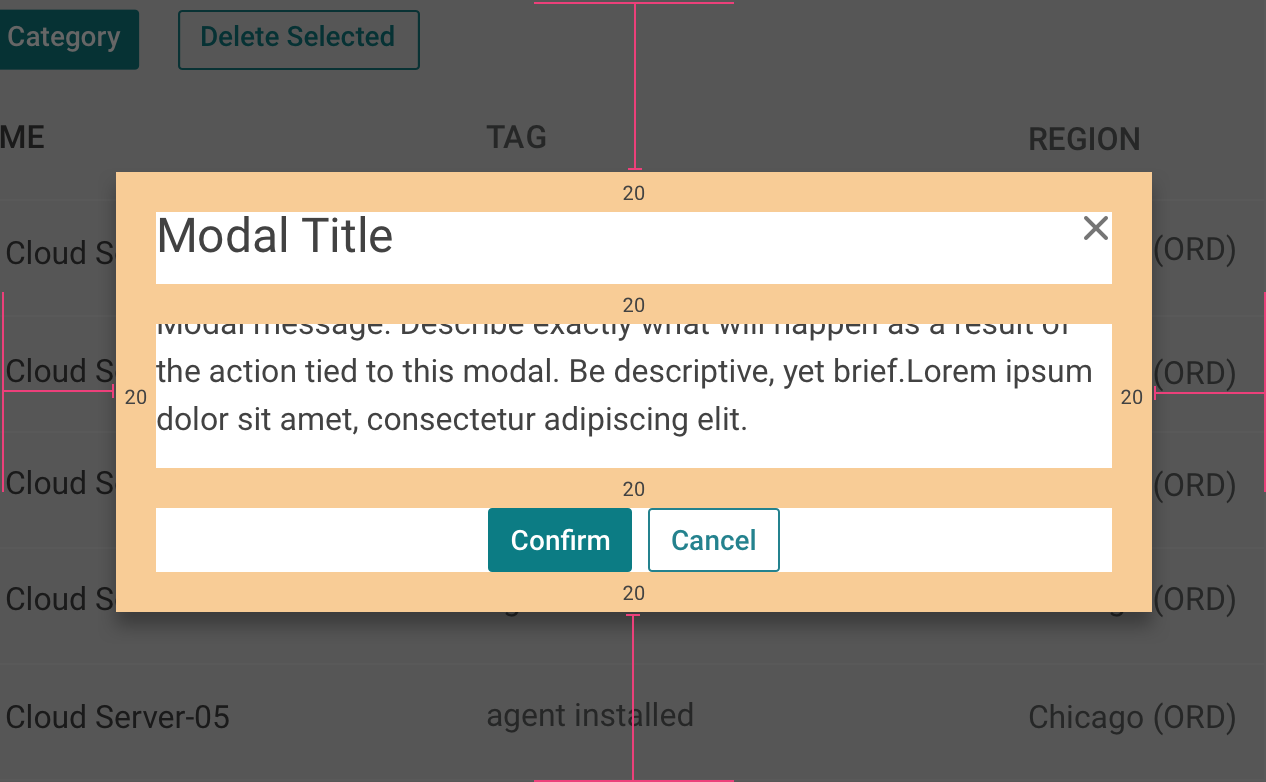
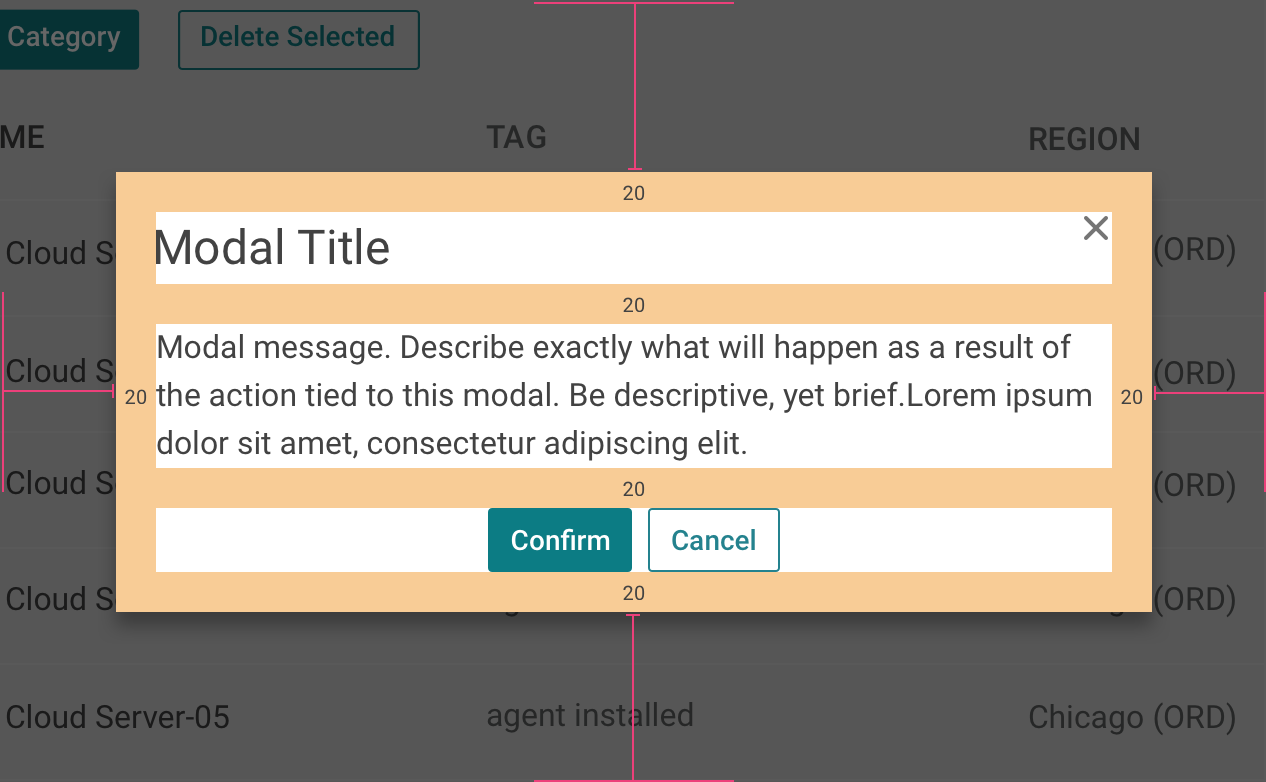
update(visual): added the acknowledgment modal visual

Changed region(s): [[0.1232, 0.399, 0.8626, 0.5831], [0.1232, 0.2762, 0.3081, 0.3376]]

diff --git a/_component_design/modal.md b/_component_design/modal.md
@@ -215,7 +215,7 @@ Construct an acknowledgment modal so that modal is removed when the user clicks 
 {% column right:"hxCol hxSpan-12-xs hxSpan-12-sm hxSpan-8-md hxSpan-8-lg" %}
 
 {% figure [caption:"Acknowledgment modal"] [class:"image bg-light border"] %}
-<embed src="{{site.url}}/assets/images/components/content-areas/modal/modal-use-case-confirmations.svg" width="500px"/>
+<embed src="{{site.url}}/assets/images/components/content-areas/modal/modals-acknowledgement-modal.png" width="633px"/>
 {% endfigure %}
 
 {% endcolumn %}
@@ -230,11 +230,12 @@ Construct an acknowledgment modal so that modal is removed when the user clicks 
 
 {% column left:"hxCol hxSpan-12-xs hxSpan-12-sm hxSpan-8-md hxSpan-8-lg" %}
 
-## Educational modals
+## Educational modal
 
-Use educational modals to introduce a new feature or guide users through a learning process. Educational modals require on a more approachable, less data-dense layout, and include significantly increased spacing of elements.
+Use an educational modal to introduce a new feature or guide users through a learning process. Educational modals require on a more approachable, less data-dense layout, and include significantly increased spacing of elements.
 
 **Best Practice**
+
 When you have multiple ideas to present, use a carousel to let the user step through the details, rather than including multiple bullet points in the modal. Keep ideas clear and focused. When you just have one idea to present, include a button at the bottom that removes the modal.
 
 Use the following specifications when you construct educational modals.
